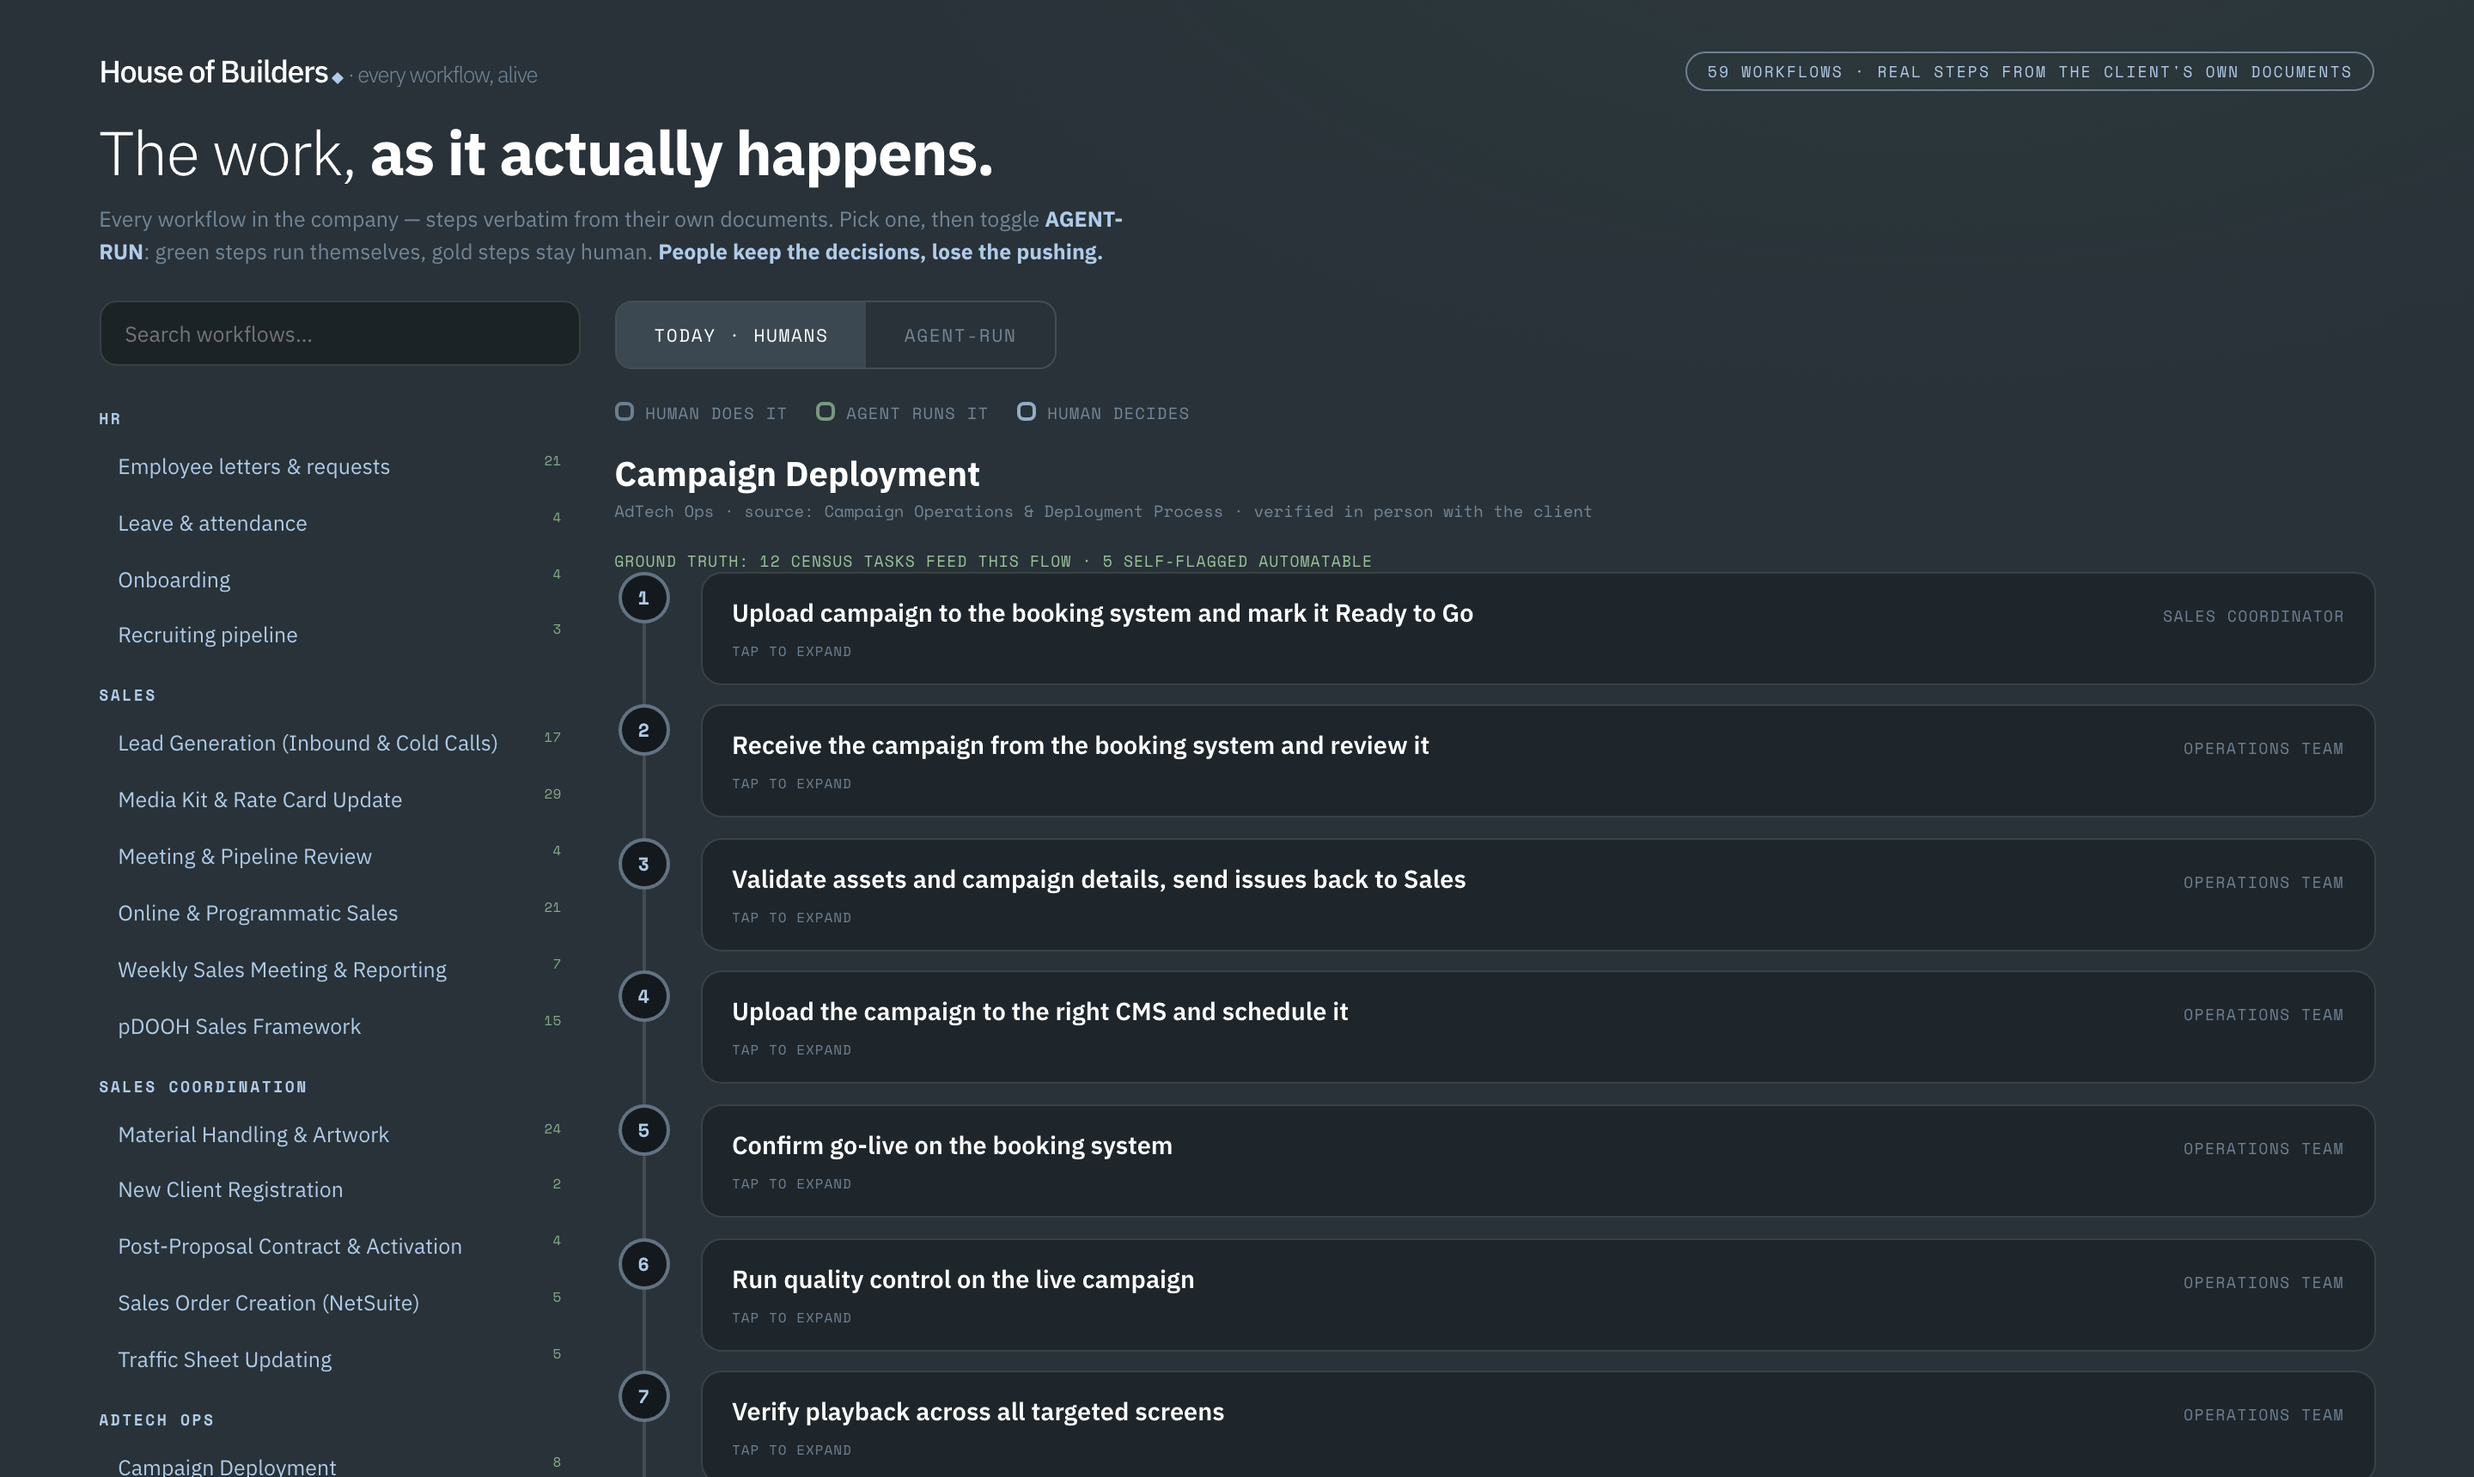
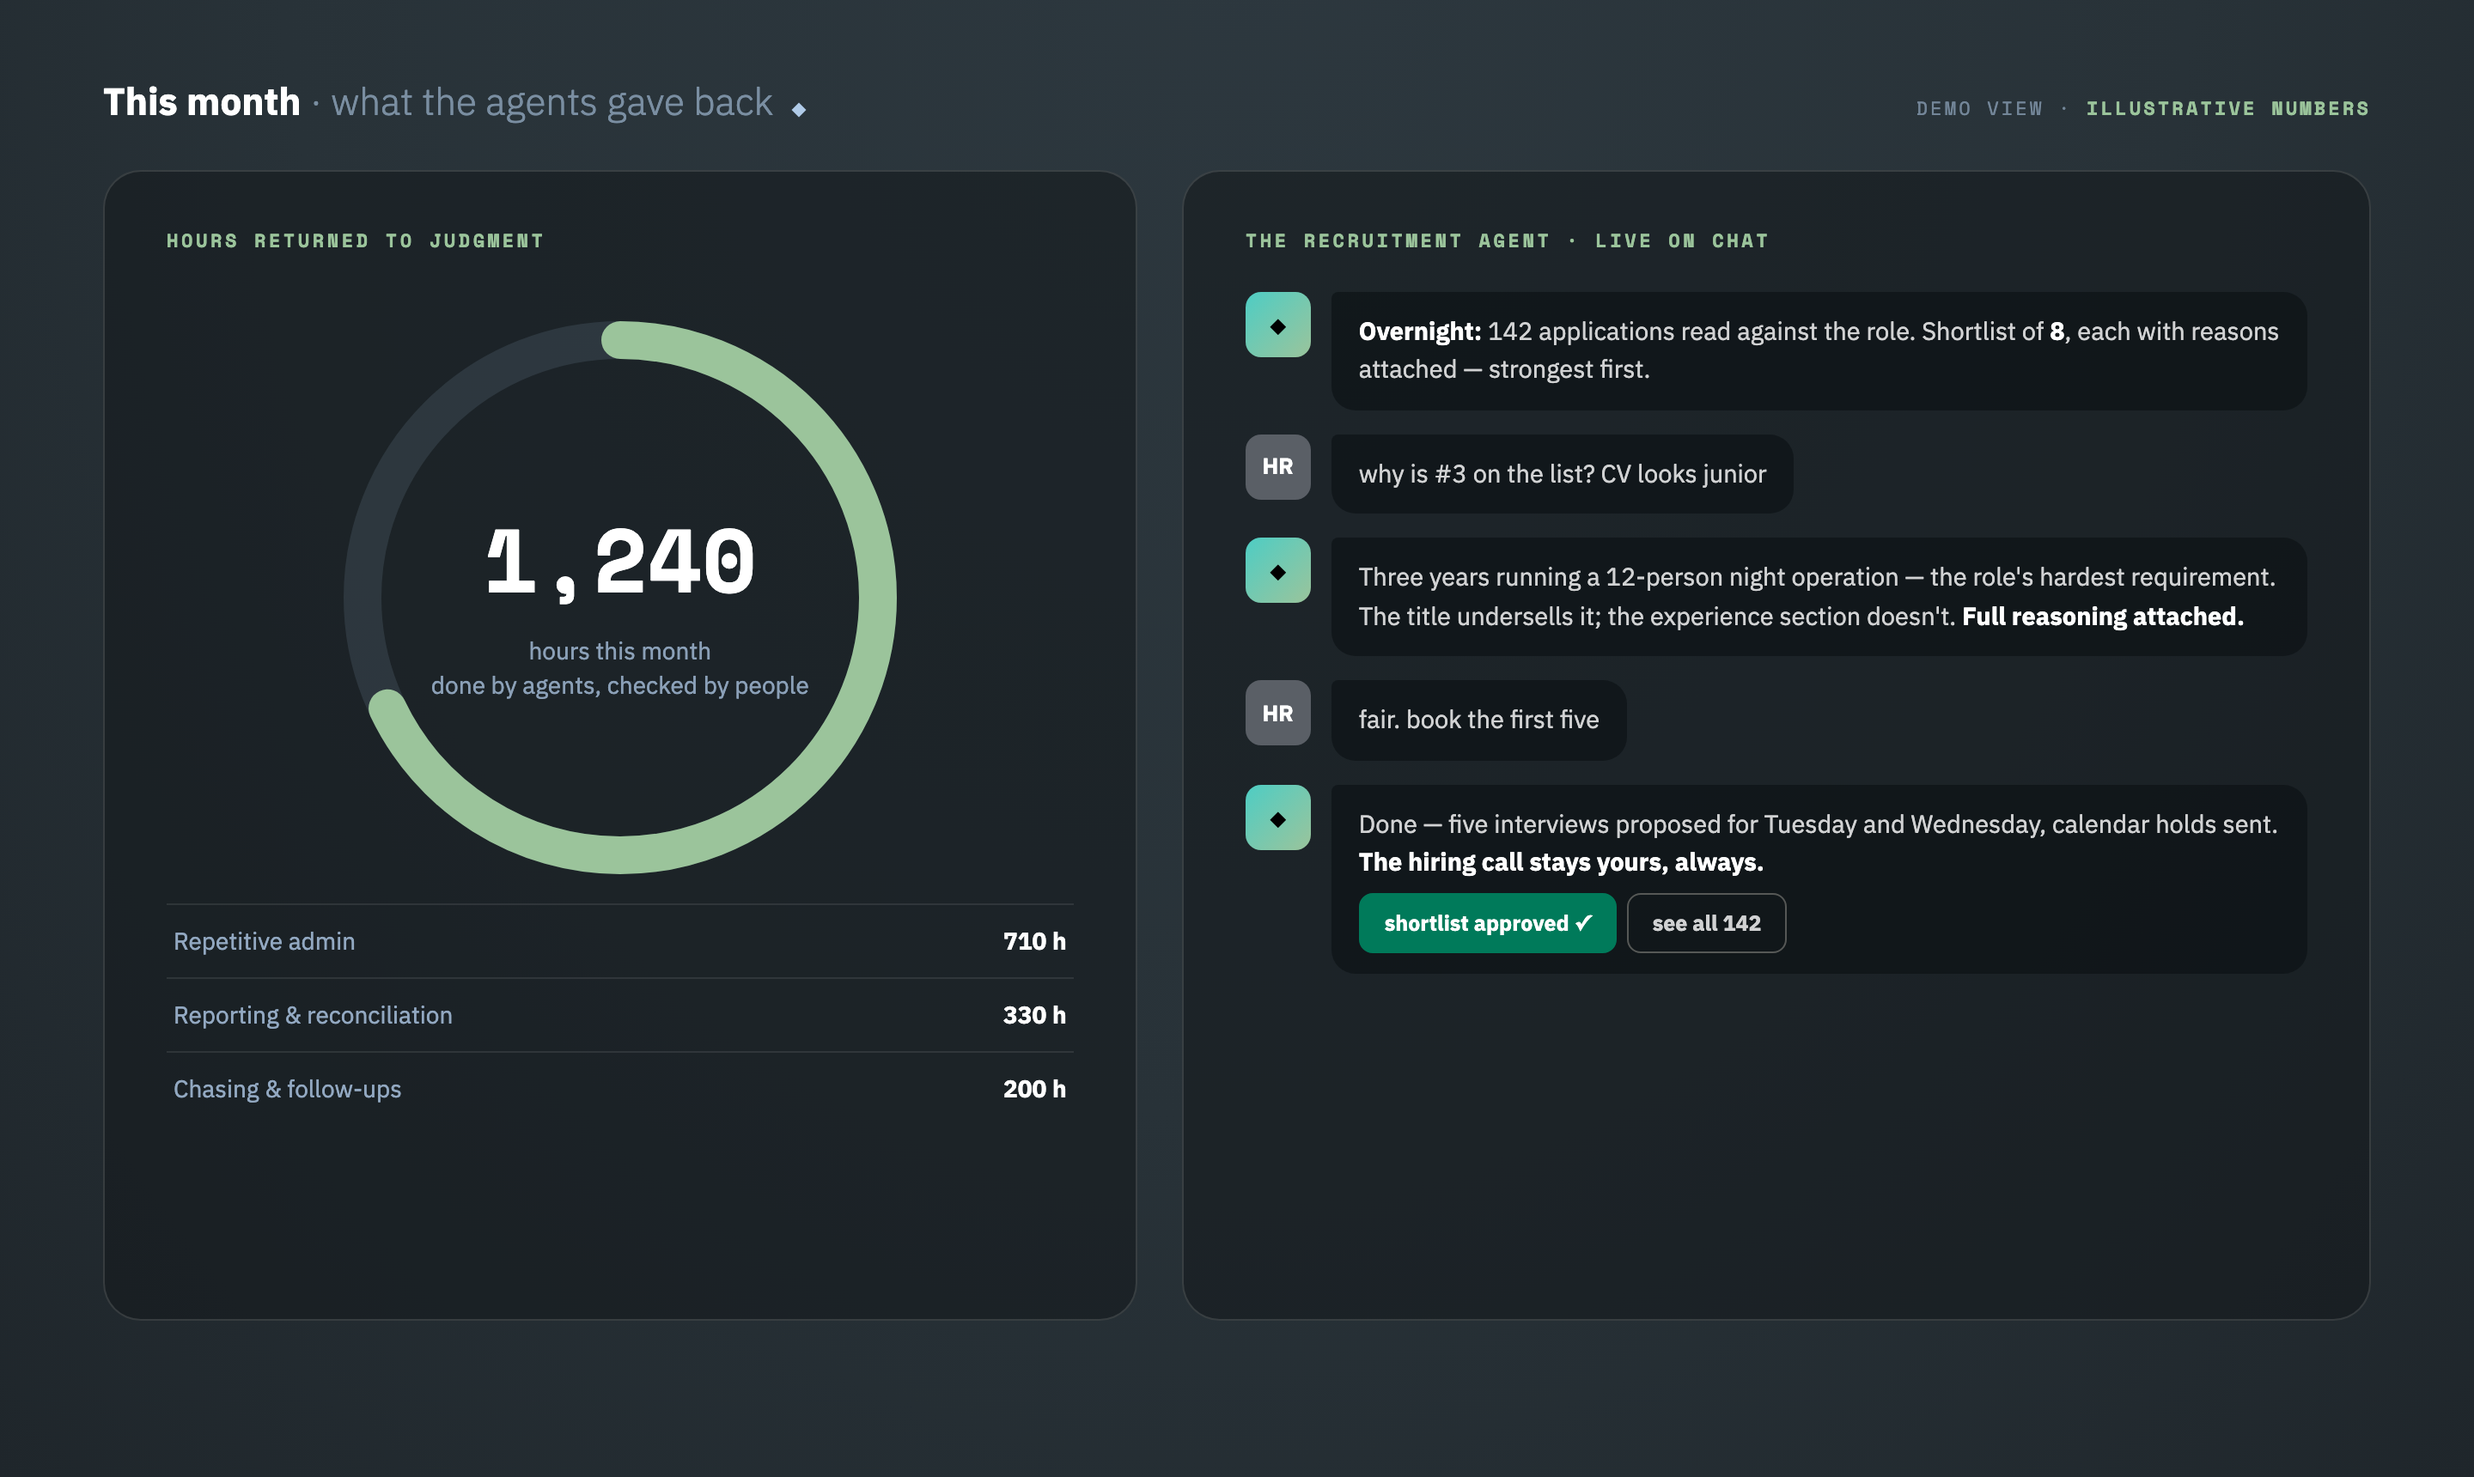
site: composed demo frames as slideshow, caption removed, no client-one mentions

diff --git a/index.html b/index.html
@@ -174,12 +174,11 @@ h2 b{font-weight:600}
 .syscard p b{color:var(--white)}
 /* animated cockpit slideshow */
 .macscreen{aspect-ratio:16/9.35}
-.macscreen .slide{position:absolute;inset:16px 16px 12px;border-radius:8px;overflow:hidden;opacity:0;animation:ckcycle 16s infinite}
+.macscreen .slide{position:absolute;inset:16px 16px 12px;border-radius:8px;overflow:hidden;opacity:0;animation:ckcycle 12s infinite}
 .macscreen .slide img{width:100%;height:100%;object-fit:cover;object-position:top}
 .macscreen .slide:nth-child(2){animation-delay:0s}
 .macscreen .slide:nth-child(3){animation-delay:4s}
 .macscreen .slide:nth-child(4){animation-delay:8s}
-.macscreen .slide:nth-child(5){animation-delay:12s}
 @keyframes ckcycle{0%{opacity:0}3%{opacity:1}25%{opacity:1}31%{opacity:0}100%{opacity:0}}
 /* score dial small */
 .dial{width:120px;height:120px;border-radius:50%;background:conic-gradient(#fff 0deg 220deg, rgba(255,255,255,0.09) 220deg 360deg);display:flex;align-items:center;justify-content:center;flex-shrink:0}
@@ -242,13 +241,11 @@ footer a{color:var(--text);text-decoration:none}
   <div class="lead">Three numbers that tell you how it's doing, insights that find you, decisions that arrive ready to approve. Nothing new to learn: the AI works underneath, invisibly. <b>The Cockpit becomes your company's map for AI</b> — every workflow, every agent, every decision, one place.</div>
   <div class="macbook">
     <div class="macscreen" style="position:relative"><img src="img/cockpit-1.png" alt="the HoB cockpit" style="visibility:hidden">
-      <div class="slide"><img src="img/cockpit-1.png" alt="the whole company on one screen"></div>
-      <div class="slide"><img src="img/cockpit-2.png" alt="orbit view — every department a planet"></div>
-      <div class="slide"><img src="img/cockpit-3.png" alt="a workflow, today vs agent-run"></div>
-      <div class="slide"><img src="img/cockpit-4.png" alt="the bot on chat"></div>
+      <div class="slide"><img src="img/cockpit-1.png" alt="three numbers and the living map"></div>
+      <div class="slide"><img src="img/cockpit-2.png" alt="every department, measured"></div>
+      <div class="slide"><img src="img/cockpit-3.png" alt="hours returned and the recruitment agent"></div>
     </div>
     <div class="macbase"></div>
-    <div class="maccap">the cockpit, live rotation: the whole company → orbit view → a workflow, today vs agent-run → the bot on chat · client-one screens, anonymized</div>
   </div>
 </section>
 
